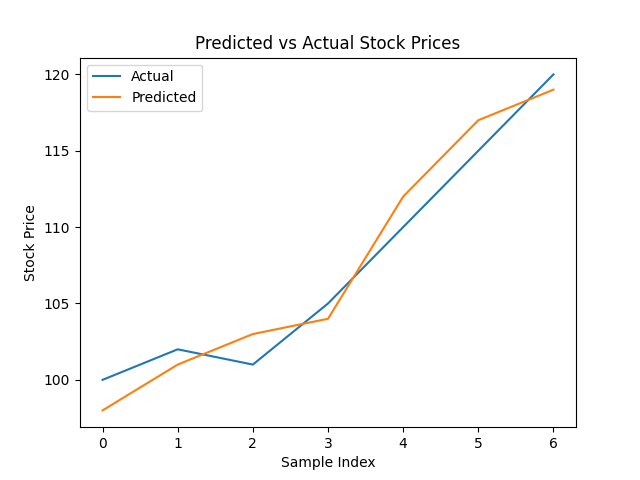
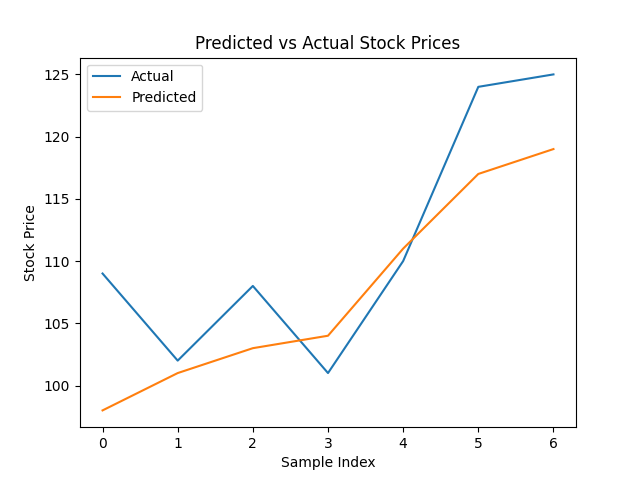
fix test format

diff --git a/test.py b/test.py
@@ -1,17 +1,17 @@
 from pyspark.sql import SparkSession
 from pyspark import SparkConf, SparkContext
 import numpy as np
-from model import evaluate, plot_predictions
+from model import *
 
-sc = SparkContext("local", "test")
-data = [1,2,3,4,5]
-rdd = sc.parallelize(data)
-rdd_sq = rdd.map(lambda x: x ** 2)
-result = rdd_sq.collect()
+def test_spark_rdd():
+    sc = SparkContext("local", "test")
+    data = [1,2,3,4,5]
+    rdd = sc.parallelize(data)
+    rdd_sq = rdd.map(lambda x: x ** 2)
+    result = rdd_sq.collect()
+    print(result)
 
-print(result)
-
-sc.stop()
+    sc.stop()
 
 # from pyspark.sql import SparkSession
 # spark = SparkSession.builder.appName("PySparkTest").master("yarn").getOrCreate()
@@ -29,9 +29,12 @@ sc.stop()
 
 
 
-if __name__ == "__main__":
-    actual = np.array([100, 102, 101, 105, 110, 115, 120])
-    predicted = np.array([98, 101, 103, 104, 112, 117, 119])
+def test_evaluate_graph():
+    actual = np.array([109, 102, 108, 101, 110, 124, 125])
+    predicted = np.array([98, 101, 103, 104, 111, 117, 119])
 
     evaluate(predicted, actual)
     plot_predictions(predicted, actual)
+    
+test_spark_rdd()
+test_evaluate_graph()
